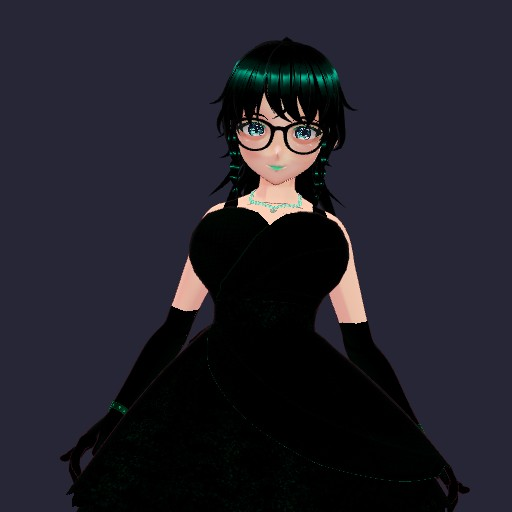
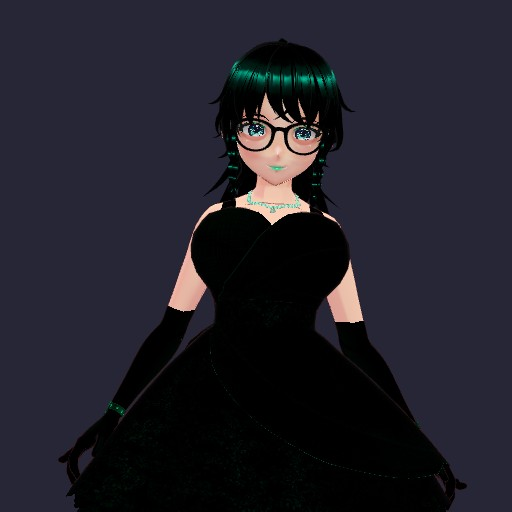
r2026-10-05.124: residual facing fix — re-calibrate after idle settles; thumbs + cutouts re-baked square

diff --git a/apps/web/lib/vrm/avatar.ts b/apps/web/lib/vrm/avatar.ts
@@ -183,6 +183,15 @@ export interface Avatar {
   clampShoulderROM(): void;
   /** r115: raw bone lookup for poke-zone raycast + hand-drag IK (null when absent) */
   getBoneNode(name: string): THREE.Object3D | null;
+  /**
+   * r124: re-measure the shoulder line and yaw away any residual error. The
+   * constructor calibrates facing from the RAW rest pose, whose shoulder
+   * line can be systematically off (~10° on several rigs) — once the idle
+   * neutral frame settles the shoulders into their natural place, a second
+   * pass on the inner node removes the lean. Safe to call any time; a no-op
+   * when shoulders are already square.
+   */
+  recalibrateFacing(): void;
   update(dt: number): void;
 }
 
@@ -651,6 +660,15 @@ class V1Avatar implements Avatar {
     }
   }
 
+  /** r124: second facing pass on the inner scene after the idle frame settles */
+  recalibrateFacing(): void {
+    calibrateFacing(
+      this.vrm.scene,
+      this.vrm.humanoid?.getNormalizedBoneNode('leftShoulder') ?? null,
+      this.vrm.humanoid?.getNormalizedBoneNode('rightShoulder') ?? null,
+    );
+  }
+
   update(dt: number): void {
     this.vrm.update(dt);
   }
@@ -897,6 +915,15 @@ class GenericAvatar implements Avatar {
   /** r115: resolved bone by semantic name — body map first, then fingers */
   getBoneNode(name: string): THREE.Object3D | null {
     return this.bones.get(name as BoneName) ?? this.fingers.get(name) ?? null;
+  }
+
+  /** r124: second facing pass on the inner node after the idle frame settles */
+  recalibrateFacing(): void {
+    calibrateFacing(
+      this.inner,
+      this.bones.get('leftShoulder') ?? null,
+      this.bones.get('rightShoulder') ?? null,
+    );
   }
 
   update(dt: number): void {

diff --git a/apps/web/lib/revision.ts b/apps/web/lib/revision.ts
@@ -182,7 +182,17 @@
 // the dev server runs --webpack because Turbopack can't spawn its node pool
 // in this shell ("program not found"). Falls back to the painted portrait
 // chip when a cutout is missing.
-export const APP_REVISION = 'r2026-10-05.123';
+// r2026-10-05.124 (Master Simon: "the character has been rotated to the
+// right by around 10 degrees… all characters not standing straight") —
+// RESIDUAL FACING FIX. Root cause: calibrateFacing ran ONCE at avatar
+// construction against the RAW rest pose (bind/T-pose), and several rigs
+// carry a shoulder line that is systematically ~10° off true forward in
+// that pose. New Avatar.recalibrateFacing() re-measures the shoulder line
+// and yaws the residual away; CompanionCanvas calls it once ~0.9s after the
+// entry crossfade (the idle stance has settled, the correction is small and
+// invisible mid-motion), and the thumb-bake studio calls it after applying
+// the idle mid-frame, then re-bakes every thumb + cutout (10/10, 0 fail).
+export const APP_REVISION = 'r2026-10-05.124';
 
 /** app identity, rendered on the splash screen and status plate */
 export const APP_NAME = 'Amoji';

diff --git a/apps/web/components/CompanionCanvas.tsx b/apps/web/components/CompanionCanvas.tsx
@@ -640,6 +640,15 @@ export default function CompanionCanvas({ onNotice, onPoke, accent = '#f9a8d4', 
       // r59: blend IN from the current (procedural) pose over ~a second —
       // the very first clip no longer pops in from nowhere
       nextIdle(FADE.entry);
+      // r124: the constructor calibrated facing from the RAW rest pose, whose
+      // shoulder line carries a systematic ~10° yaw on several rigs. Once the
+      // entry crossfade has mostly settled her into the idle's natural
+      // stance, re-measure and yaw away the residual — invisible at this
+      // point because the correction is small and she is already in motion.
+      {
+        const av = avatar;
+        if (av) setTimeout(() => av.recalibrateFacing(), 900);
+      }
     };
 
     const loadClips = (vrm: VRM) => {

diff --git a/apps/web/app/thumb-bake/page.tsx b/apps/web/app/thumb-bake/page.tsx
@@ -230,6 +230,10 @@ export default function ThumbBakePage() {
             mixer.clipAction(clip).play();
             mixer.setTime(1.15); // a natural mid-idle beat — not frame 0
             mixer.update(0);
+            // r124: re-measure facing now that the idle stance has settled
+            // (the constructor pass read the raw rest pose's ~10°-off
+            // shoulder line) — thumbs/cutouts show her standing square
+            avatar.recalibrateFacing();
           }
           // r114b: detect rigs the idle clip failed to bind on (track names
           // that don't resolve leave the model in its bind/T-pose). Arms

diff --git a/apps/web/public/sw.js b/apps/web/public/sw.js
@@ -1,4 +1,4 @@
-/* Amoji offline shell — r2026-10-05.123
+/* Amoji offline shell — r2026-10-05.124
  * Hand-rolled service worker (zero dependencies, works with Next.js static
  * export where build-time PWA plugins struggle).
  *
